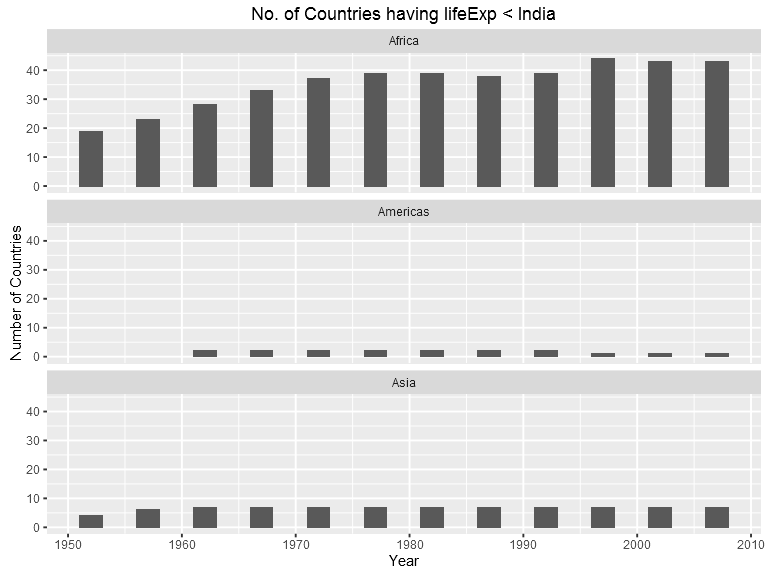
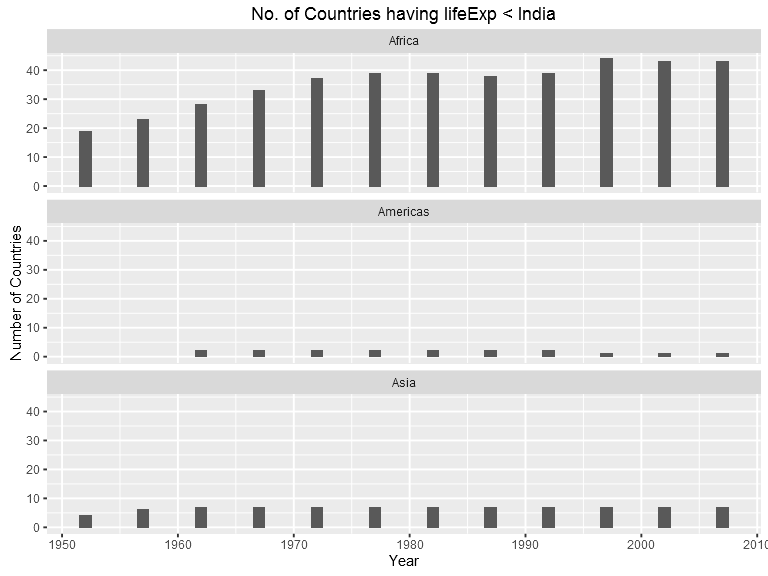
almost done

diff --git a/hw05_factor-figure-management/hw05_factor-figure-management.md b/hw05_factor-figure-management/hw05_factor-figure-management.md
@@ -268,8 +268,10 @@ pop_reorder_europe$country %>%
     ## [5] "Italy"          "Spain"
 
 ``` r
-pop_reorder_europe %>% 
+p <- pop_reorder_europe %>% 
   ggplot( aes( x = max_pop , y = country ) ) + geom_point()
+
+p
 ```
 
 ![](hw05_factor-figure-management_files/figure-markdown_github/unnamed-chunk-8-1.png)
@@ -447,11 +449,44 @@ rel_abundance %>%
 ### Partitioning the above into small multiple bar charts (One chart per continent)
 
 ``` r
-rel_abundance %>%
+q <- rel_abundance %>% 
   ggplot( aes( x = year , y = n_countries ) ) + 
-  geom_bar( width = 2 , stat = "identity" ) + 
+  geom_bar( width = 1 , stat = "identity" ) + 
   facet_wrap( ~continent , nrow = 3 ) + 
   labs( title = "No. of Countries having lifeExp < India" , x = "Year" , y = "Number of Countries" )
+
+q
 ```
 
 ![](hw05_factor-figure-management_files/figure-markdown_github/unnamed-chunk-16-1.png)
+
+Writing figures to a file
+-------------------------
+
+### Using `ggsave()` to write a figure to a file Explicitly
+
+``` r
+ggsave( "max_pop_europe.png" , plot = p )
+```
+
+    ## Saving 7 x 5 in image
+
+### Changing size of the plot to be saved using the `width=` and `height=` argument to `ggsave()`
+
+``` r
+ggsave( "resized_max_pop_europe.png" , plot = p , height = 10 , width = 10 )
+```
+
+### Scenario where explicit provision of the plot object matters
+
+``` r
+ggsave( "rel_lifeExp_lt_India.png" )
+```
+
+    ## Saving 7 x 5 in image
+
+``` r
+ggsave( "rel_lifeExp_lt_India_for_sure.png" , plot = q )
+```
+
+    ## Saving 7 x 5 in image
